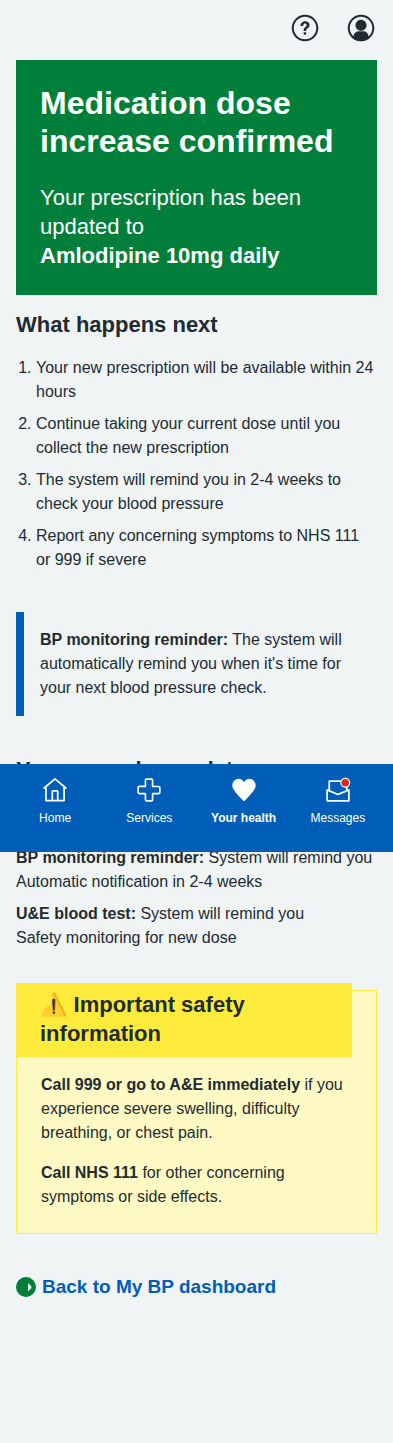
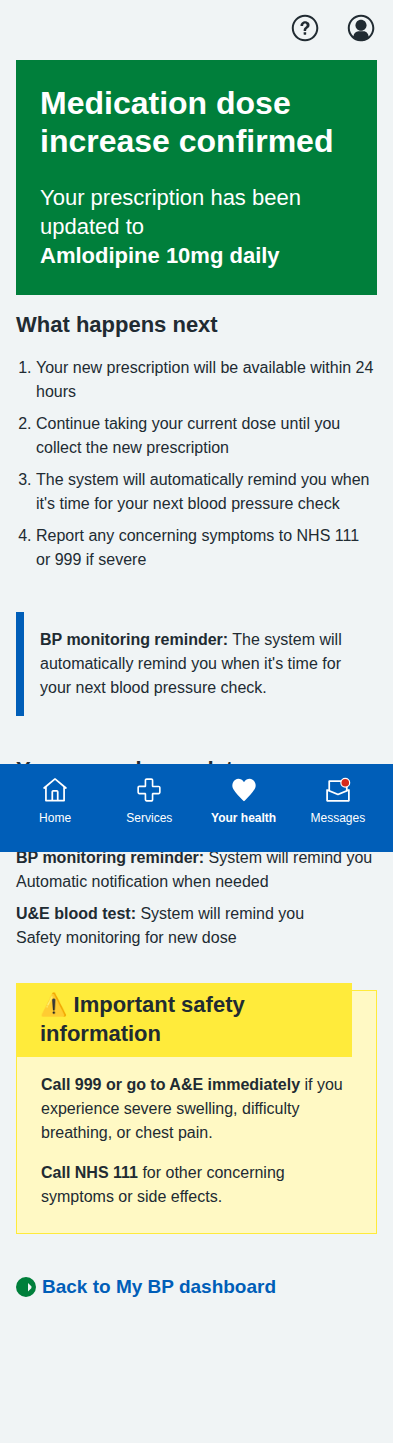
Remove all time-specific BP monitoring instructions and replace with reassuring system reminders

Changed region(s): [[0.0916, 0.3119, 0.9466, 0.3742], [0.4275, 0.5925, 0.6718, 0.6237]]

diff --git a/prototype/v1/app/views/pages/mybp/dose-titration/confirmation.html b/prototype/v1/app/views/pages/mybp/dose-titration/confirmation.html
@@ -21,7 +21,7 @@
       <ol class="nhsuk-list nhsuk-list--number">
         <li>Your new prescription will be available within 24 hours</li>
         <li>Continue taking your current dose until you collect the new prescription</li>
-        <li>The system will remind you in 2-4 weeks to check your blood pressure</li>
+        <li>The system will automatically remind you when it's time for your next blood pressure check</li>
         <li>Report any concerning symptoms to NHS 111 or 999 if severe</li>
       </ol>
 
@@ -42,7 +42,7 @@
           <ul class="nhsuk-list">
             <li>
               <strong>BP monitoring reminder:</strong> System will remind you
-              <br><span class="nhsuk-u-secondary-text-colour">Automatic notification in 2-4 weeks</span>
+              <br><span class="nhsuk-u-secondary-text-colour">Automatic notification when needed</span>
             </li>
             <li>
               <strong>U&E blood test:</strong> System will remind you

diff --git a/prototype/v1/app/views/pages/mybp/dose-titration/recommendation.html b/prototype/v1/app/views/pages/mybp/dose-titration/recommendation.html
@@ -91,9 +91,9 @@
           </ul>
           <h3 class="nhsuk-heading-s">Monitoring plan</h3>
           <ul class="nhsuk-list nhsuk-list--bullet">
-            <li>System will remind you for BP check in 2-4 weeks</li>
+            <li>System will automatically remind you when it's time for your next blood pressure check</li>
             <li>Call NHS 111 for concerning symptoms, 999 for severe symptoms</li>
-            <li>System will remind you for U&E blood test in 4-6 weeks</li>
+            <li>System will automatically remind you for U&E blood test when needed</li>
           </ul>
         </div>
       </div>
